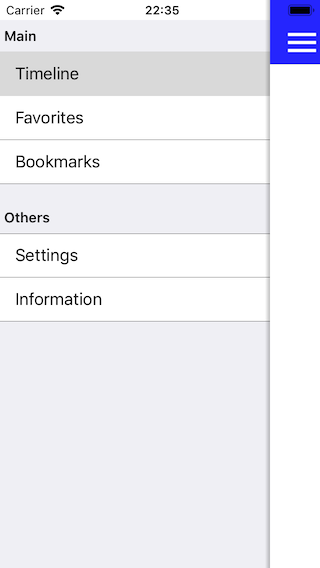
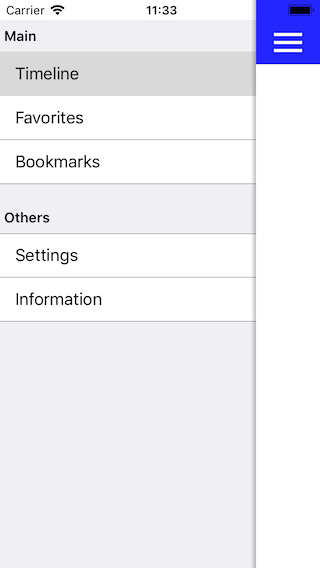
- Modified the right margin at showing side menu.

Changed region(s): [[0.7812, 0.0, 0.9062, 1.0], [0.9375, 0.0299, 1.0, 0.1197], [0.4375, 0.0, 0.5625, 0.0299]]

diff --git a/SideMenuControllerSwift/SMCSideMenuController.swift b/SideMenuControllerSwift/SMCSideMenuController.swift
@@ -3,7 +3,7 @@
  * FILE:	SMCSideMenuController.swift
  * DESCRIPTION:	SideMenuController: Sliding Side Menu Controller Main Class
  * DATE:	Mon, Feb 18 2019
- * UPDATED:	Tue, Feb 19 2019
+ * UPDATED:	Wed, Feb 20 2019
  * AUTHOR:	Kouichi ABE (WALL) / 阿部康一
  * E-MAIL:	kouichi@MagickWorX.COM
  * URL:		http://www.MagickWorX.COM/
@@ -120,7 +120,8 @@ public class SMCSideMenuController: UIViewController
 
   private lazy var sideMenuWidth: CGFloat = {
     let width: CGFloat = self.view.bounds.size.width
-    return width - 50.0
+    let right: CGFloat = 64.0 // Right margin at showing side menu
+    return width - right
   }()
 
   // Setup the container view which will hold the child view controllers view
